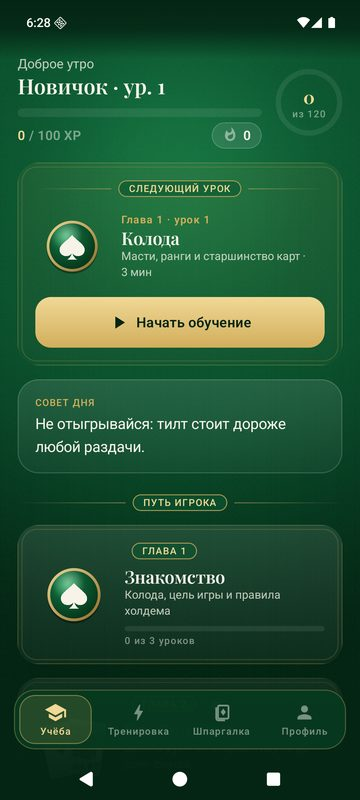
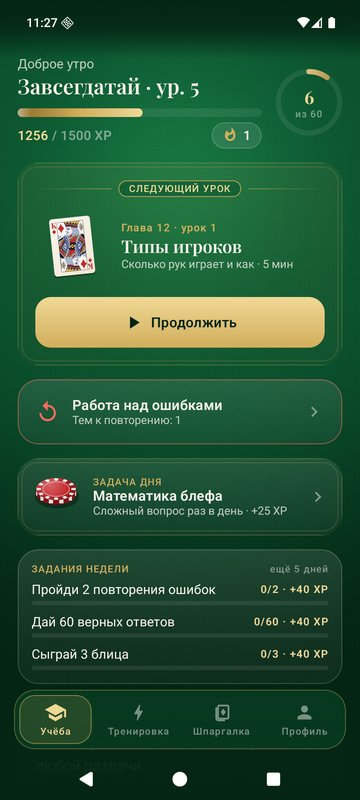
Release 2.0.0
Bump to versionCode 2 / 2.0.0 so phones install it as an update over
1.0.0. Refresh the README and screenshots for the second level, and let
CI take release notes from docs/release-notes/<tag>.md.

Checked on the emulator: 2.0.0 installed over 1.0.0 as an update kept
the completed lesson, XP, daily goal, streak and review queue.

diff --git a/README.md b/README.md
@@ -1,39 +1,55 @@
 # Масть — тренер покера
 
-Офлайн-приложение для Android, которое учит техасскому холдему с нуля. На русском, без рекламы и интернета, APK весит около 2,5 МБ.
+Офлайн-приложение для Android, которое учит техасскому холдему с нуля и дальше — до диапазонов, EV и турнирной игры. На русском, без рекламы и интернета, APK весит около 2,5 МБ.
 
 <p>
 <img src="docs/screens/home.jpg" width="200">
 <img src="docs/screens/lesson.jpg" width="200">
-<img src="docs/screens/feedback.jpg" width="200">
-<img src="docs/screens/blitz.jpg" width="200">
+<img src="docs/screens/ranges.jpg" width="200">
+<img src="docs/screens/pushfold.jpg" width="200">
 </p>
 <p>
-<img src="docs/screens/practice.jpg" width="200">
+<img src="docs/screens/review.jpg" width="200">
+<img src="docs/screens/sizing.jpg" width="200">
+<img src="docs/screens/variance.jpg" width="200">
+<img src="docs/screens/equity.jpg" width="200">
+</p>
+<p>
+<img src="docs/screens/feedback.jpg" width="200">
+<img src="docs/screens/blitz.jpg" width="200">
 <img src="docs/screens/achievement.jpg" width="200">
-<img src="docs/screens/onboarding.jpg" width="200">
-<img src="docs/screens/deck.jpg" width="200">
+<img src="docs/screens/range-lesson.jpg" width="200">
 </p>
 
 ## Что внутри
 
-- **32 урока в 6 главах**: знакомство с колодой, все 10 комбинаций с ловушками, ход раздачи и позиции, стартовые руки, ауты и шансы банка, стратегия, банкролл и тилт. В каждом уроке есть теория на анимированных картах, «Запомни» и вопросы девяти типов.
-- **8 тренажёров с бесконечными раздачами**: «Что за комбинация?», «Кто выиграл?», «Собери руку», «Ауты», «Шансы банка», «Префлоп», «Фаворит?» и «Сыграй раздачу». Последний — симулятор полной раздачи против бота, где каждое решение оценивается и объясняется. У каждого тренажёра есть режимы практики и блица на 60 секунд.
-- **Объяснения пишет движок по реальным картам**. На неверный ответ — разбор «почему не так». Все числа и утверждения в текстах проверяются тестами.
+- **57 уроков в 12 главах**, два уровня.
+  - Основы: колода, все 10 комбинаций с ловушками, ход раздачи и позиции, стартовые руки, ауты и шансы банка, стратегия, банкролл и тилт.
+  - Уровень 2: диапазоны и комбинаторика, EV и математика блефа, размер ставок, 3-бет и защита блайндов, турниры (пуш-фолд, пузырь, ICM), типы соперников.
+- **Экзамен в конце каждой главы**: 8 вопросов, за 6 верных глава получает золотую печать.
+- **13 тренажёров с бесконечными раздачами**. Например: «Что за комбинация?», «Шансы банка», «Собери диапазон» (рисуешь пальцем по таблице 13×13), «Пуш или фолд», «Размер ставки», «Математика блефа», «Комбинаторика». Сложность растёт вместе с твоим рейтингом по теме.
+- **Симулятор раздачи 6-max**: пять стилей соперников (нит, регуляр, агрессор, колл-станция, маньяк), открытия, лимпы, 3-беты и 4-беты. Тренер оценивает каждое решение с учётом стиля соперника, а после раздачи можно открыть полный разбор.
+- **Объяснения пишет движок по реальным картам**. На неверный ответ показывается разбор «почему не так». Все числа и утверждения в текстах проверяются тестами.
+- **Мотивация**:
+  - XP, уровни от «Новичка» до «Легенды», серия дней, дневная цель;
+  - задача дня, три задания недели;
+  - рейтинг навыка по каждой теме;
+  - 49 ачивок, включая скрытые.
 - **Работа над ошибками**: темы, в которых ты ошибся, возвращаются через 1, 3 и 7 дней.
-- **Мотивация**: XP, уровни от «Новичка» до «Легенды», серия дней, дневная цель и 34 ачивки, включая скрытые.
-- **Шпаргалка**: лестница комбинаций с частотами для холдема, словарь, таблица префлопа, ауты и шансы банка.
+- **Шпаргалка и инструменты**: лестница комбинаций с частотами, словарь, таблица префлопа, ауты и шансы банка. Есть калькулятор шансов (против руки, случайной руки или топ-X%) и симулятор дисперсии.
 
-## Установка
+## Установка и обновление
 
 Скачай `mast-vX.Y.Z.apk` из [Releases](../../releases) на телефон и открой файл. Android попросит разрешить установку из этого источника. Нужен Android 8.0 или новее.
+
+Новую версию ставь поверх старой, не удаляя её: телефон покажет «Обновить», и весь прогресс сохранится. Если удалить приложение, прогресс удалится вместе с ним.
 
 ## Сборка
 
 Нужны JDK 21 и Android SDK (platform 37).
 
 ```bash
-./gradlew :app:testDebugUnitTest   # тесты: движок, контент, объяснения, симулятор
+./gradlew :app:testDebugUnitTest   # тесты: движок, контент, объяснения, симулятор, прогресс
 ./gradlew :app:assembleDebug       # debug-сборка
 ./gradlew :app:assembleRelease     # релиз; подпись из keystore.properties или MAST_KEYSTORE_PROPERTIES
 ```
@@ -42,17 +58,27 @@
 
 ## Устройство
 
-- `core/poker`: карты, оценка руки (лучшие 5 из 7), вскрытие, ауты, шансы банка, эквити, таблица префлопа.
+- `core/poker`:
+  - карты, оценка руки (лучшие 5 из 7) и быстрый битовый оценщик;
+  - вскрытие, ауты, шансы банка, эквити руки и диапазона;
+  - 169 классов рук, топ-X% диапазоны, комбинаторика;
+  - пуш-фолд, ICM, дисперсия.
 - `content`: учебная программа как типобезопасный Kotlin DSL и справочник.
-- `practice`: генераторы тренажёров, проверка ответов, `Explainer` (объяснения из карт) и симулятор раздачи.
-- `progress`, `achievements`: прогресс в DataStore, XP, уровни, серия, интервальное повторение, ачивки.
-- `ui`: Jetpack Compose. Карты, сукно (AGSL-шейдер), фишки и медали нарисованы в Canvas, растровые картинки есть только у фигур.
+- `practice`:
+  - генераторы тренажёров с уровнями сложности, проверка ответов;
+  - `Explainer` (объяснения из карт), экзамены и задача дня;
+  - симулятор раздачи со стилями соперников и тренером.
+- `progress`, `achievements`: прогресс в DataStore, XP, уровни, серия, рейтинг Эло по темам, задания недели, интервальное повторение, ачивки.
+- `ui`: Jetpack Compose. Карты, сукно (AGSL-шейдер), фишки, медали и графики нарисованы в Canvas. Растровые картинки есть только у фигур.
 
 Правильность контента держится на тестах:
 - полный перебор всех 2 598 960 рук из 5 карт;
 - частоты комбинаций из 7 карт на миллионе раздач;
-- каждое число в уроках, а также утверждения объяснений на тысячах случайных раздач;
-- 4000 симулированных раздач с проверкой подсчёта фишек.
+- каждое число в уроках обоих уровней;
+- утверждения объяснений на тысячах случайных раздач;
+- решения пуш-фолда, перепроверенные точным расчётом;
+- тысячи симулированных раздач против всех стилей соперников с проверкой подсчёта фишек;
+- загрузка прогресса, сохранённого версией 1.0.0.
 
 ## Лицензии
 

diff --git a/docs/release-notes/v2.0.0.md b/docs/release-notes/v2.0.0.md
@@ -1,0 +1,42 @@
+## Что нового
+
+**Уровень 2 — шесть новых глав, 25 уроков**
+- Диапазоны и комбинаторика.
+- Математика 2: EV, фолд-эквити, сколько должен работать блеф, MDF, блокеры.
+- Размер ставок по улицам и текстуре борда.
+- Префлоп 2: 3-бет, 4-бет, защита блайндов, кража и изоляция.
+- Турниры: глубина стека, пуш-фолд, пузырь и ICM.
+- Типы соперников и как против них играть.
+
+**Пять новых тренажёров**
+- «Собери диапазон»: рисуешь пальцем по таблице 13×13.
+- «Пуш или фолд».
+- «Комбинаторика».
+- «Размер ставки».
+- «Математика блефа».
+
+Сложность растёт вместе с твоим рейтингом по теме.
+
+**Симулятор раздачи 6-max**
+- Пять стилей соперников: нит, регуляр, агрессор, колл-станция, маньяк.
+- Открытия, лимпы, 3-беты, защита блайнда.
+- Тренер учитывает стиль соперника.
+- После раздачи — полный разбор.
+
+**Прогресс**
+- Экзамен в конце каждой главы и золотая печать за него.
+- Рейтинг навыка по темам.
+- Задача дня, три задания недели.
+- 15 новых ачивок.
+
+**Инструменты в шпаргалке**
+- Калькулятор шансов: против руки, случайной руки или топ-X%.
+- Симулятор дисперсии.
+
+## Как обновиться
+
+Скачай `mast-v2.0.0.apk` на телефон и открой его. Телефон предложит **обновить** приложение — соглашайся. Весь прогресс сохранится: пройденные уроки, XP, серия дней и ачивки.
+
+Старую версию **не удаляй** перед установкой: вместе с приложением удалится и прогресс.
+
+Если ставишь впервые, Android попросит разрешить установку из этого источника. Нужен Android 8.0 или новее.
